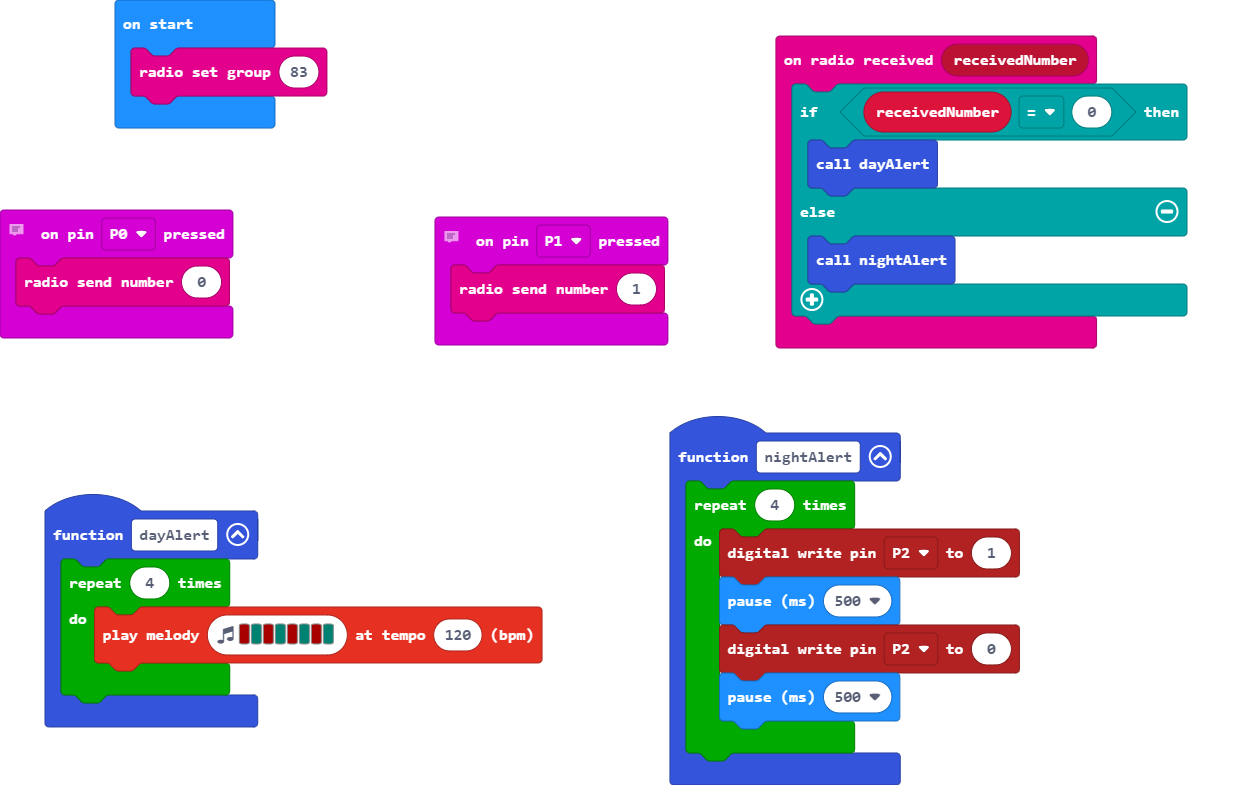
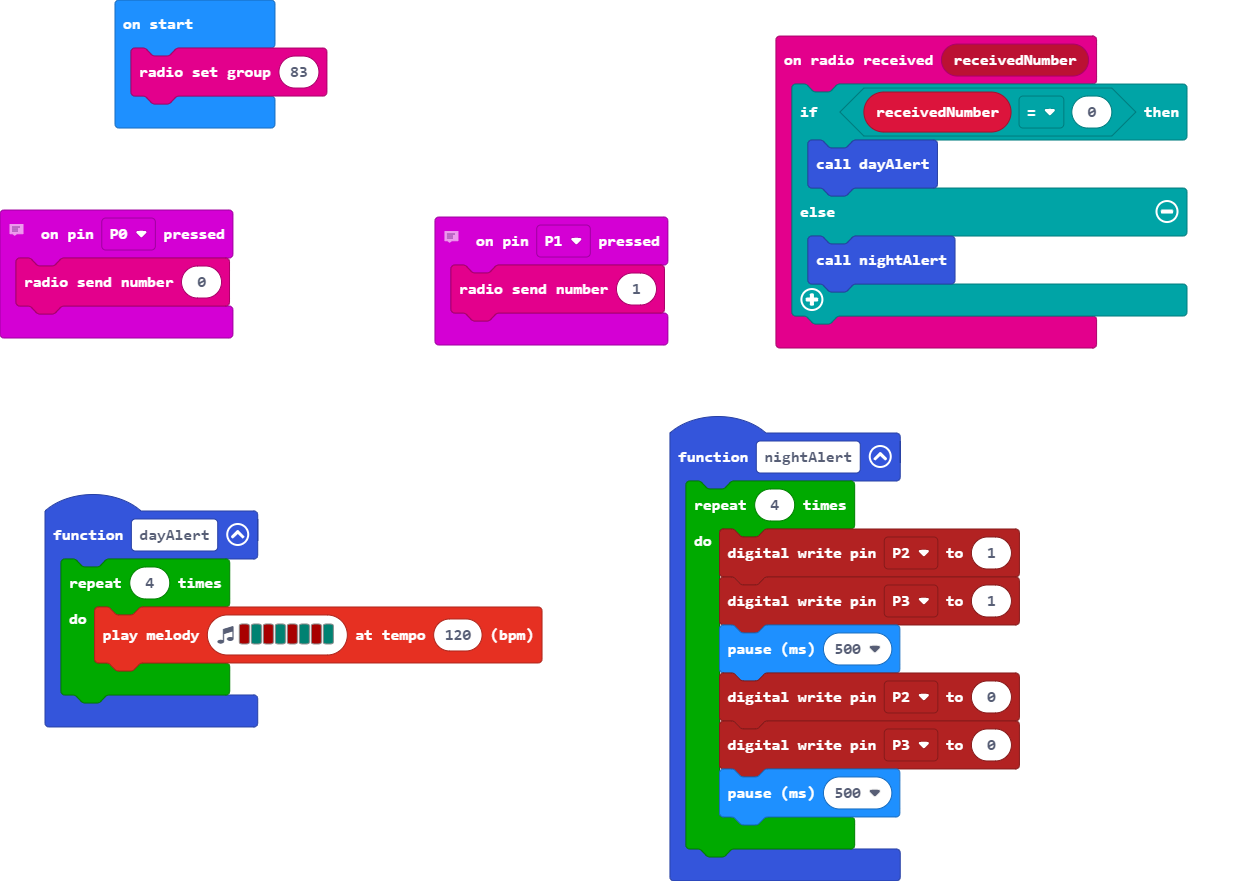
Update main.blocks, main.ts

diff --git a/main.ts b/main.ts
@@ -12,8 +12,10 @@ radio.onReceivedNumber(function (receivedNumber) {
 function nightAlert () {
     for (let index = 0; index < 4; index++) {
         pins.digitalWritePin(DigitalPin.P2, 1)
+        pins.digitalWritePin(DigitalPin.P3, 1)
         basic.pause(500)
         pins.digitalWritePin(DigitalPin.P2, 0)
+        pins.digitalWritePin(DigitalPin.P3, 0)
         basic.pause(500)
     }
 }
